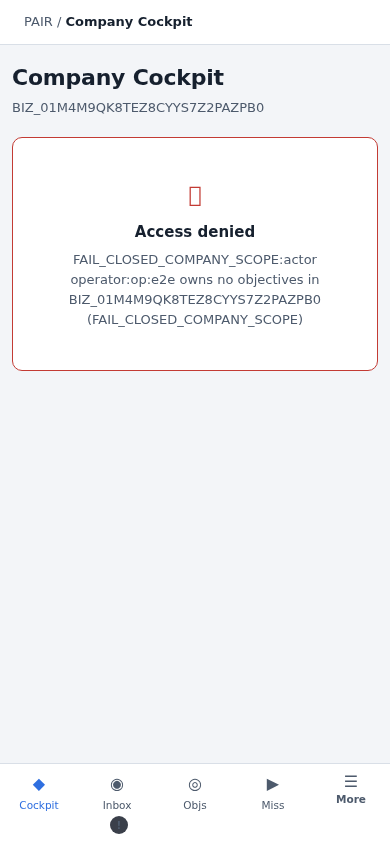
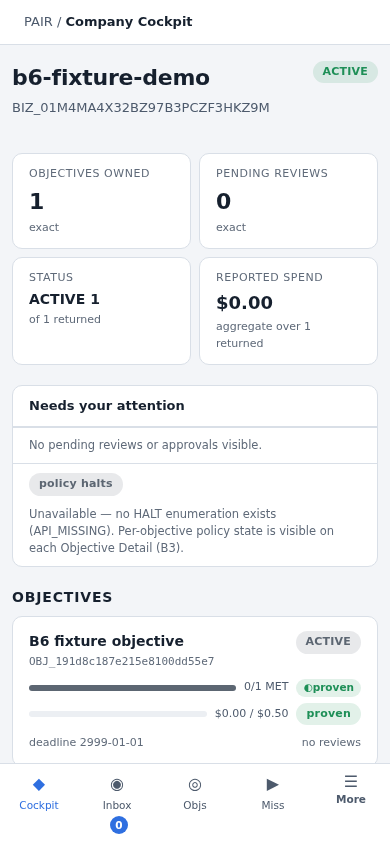
P15.9-B6 R3: valid owner-scoped populated screenshot evidence
- seed canonical objective via POST /api/vnext/objectives; backend derives
  owner_authority_id=operator:op:e2e (never forged); company API 200 asserted
- per-capture marker-text wait + reject access-denied/fail_closed/no-business
- 16 PNGs regenerated on /tmp/pair-b6-shots-lc0mas; PNGs inspected: real
  populated states (R2's 403 captures documented as corrected false-pass)

diff --git a/docs/P15_9_B6/verification-report.md b/docs/P15_9_B6/verification-report.md
@@ -7,7 +7,7 @@ BASE `7791800cc764974d659f335d1e0e569a97106411` · branch `devin/1791681135-p15-
 - `apps/mission-control-ui/src/main.tsx` — dormant opt-in legacy→/app redirect (`OptInRedirect`, `pair.legacy_redirect` flag, 9 route mappings, dynamic-id + query/hash preservation).
 - `apps/mission-control-ui/src/app/routes.tsx` — `/app` index now `Navigate` → `/app/company` (stale "lands in B2" placeholder removed).
 - `apps/mission-control-ui/e2e/b6-acceptance.spec.ts` — new, 7 tests.
-- `apps/mission-control-ui/scripts/b6-shots.mjs` — screenshot generator (R2 rewrite: self-spawns the fixture server on a fresh mkdtemp `PAIR_MC_DIR` with synthetic `PAIR_MC_TOKEN=b6-fixture-token`; asserts empty env → canonical business create → `localStorage` + business-render assertions before every capture; navigation errors abort, never suppressed).
+- `apps/mission-control-ui/scripts/b6-shots.mjs` — screenshot generator (R3: self-spawns fixture server on fresh mkdtemp `PAIR_MC_DIR` + synthetic `PAIR_MC_TOKEN`; asserts empty env → canonical business + **canonical owner-scoped objective** seed (backend-derived `owner_authority_id`, never forged) → asserts company API 200 → per-capture marker-text wait + canonical-error rejection).
 - `docs/P15_9_B6/` — 8 deliverable documents (R1 revisions: per-pane read audit, SSE token-in-query correction, screenshot provenance/labels, vitest baseline evidence, updated gates; R2 revision: verified-screenshot provenance).
 - `.pair-verification/patch-claim.json` — B6 claim.
 
@@ -45,5 +45,5 @@ See `visual-responsive-accessibility.md`. One demonstrable defect found and fixe
 - The no-staticDir UI_HTML serving mode was verified in code only (mandate: do not start another server).
 - Redirect ON-state tested per-test in isolated browser storage only; no real deployment was switched (none exists).
 - axe-core scan deferred to A2 by Owner decision.
-- Screenshots: 16 deterministic captures committed under `docs/P15_9_B6/screenshots/` (light+dark × 1440/1024/768/390 over company, objectives, inbox, missions, system-cost, system-providers, mobile company, mobile chat) via `scripts/b6-shots.mjs`. **Provenance (R2):** the script spawns its own `serve-mission-control.mjs` — fresh `PAIR_MC_DIR=/tmp/pair-b6-shots-0GNAkb` (mkdtemp per run), `PAIR_MC_PORT=8792`, `PAIR_MC_TOKEN=b6-fixture-token` (synthetic; the real dev credential is never read), stub replies, template planner. Runtime-verified isolation: `GET /api/businesses` asserted EMPTY before seeding (abort otherwise); one synthetic business `BIZ_01M4M9QK8TEZ8CYYS7Z2PAZPB0` (`b6-fixture-demo`) created via canonical POST; every page loads `pair.business_id` via `addInitScript` argument (R1 bug fixed — the id is now serialized into the browser context); **pre-capture assertions**: `localStorage["pair.business_id"]===BIZ`, `main.amain` present, populated shots fail on "No business selected" and require the fixture business in page text; navigation non-OK aborts (no `.catch()` suppression). Execution: `cd apps/mission-control-ui && node scripts/b6-shots.mjs` → all 16 lines `shot … OK`, populated shots tagged `(business rendered)` → `done — all captures verified`. No production credential/business data anywhere. Shots prove a subset (8 views × 2 themes); unevidenced interactive states recorded INSUFFICIENT in the a11y/visual doc.
+- Screenshots: 16 deterministic captures committed under `docs/P15_9_B6/screenshots/` (light+dark × 1440/1024/768/390 over company, objectives, inbox, missions, system-cost, system-providers, mobile company, mobile chat) via `scripts/b6-shots.mjs`. **Provenance (R3):** self-spawned `serve-mission-control.mjs` on fresh `PAIR_MC_DIR=/tmp/pair-b6-shots-lc0mas` (mkdtemp), `PORT=8792`, `PAIR_MC_TOKEN=b6-fixture-token` (synthetic — real dev credential never read), stub replies, template planner. Runtime-verified chain: `GET /api/businesses` EMPTY → canonical `POST /api/businesses` → `BIZ_01M4MA4X32BZ97B3PCZF3HKZ9M` → canonical `POST /api/vnext/objectives` (no forged owner; backend derives `owner_authority_id=operator:op:e2e` from `x-operator-id`) → `OBJ_191d8c187e215e8100dd55e7` owner+business asserted → `GET /api/vnext/businesses/:id/company` asserted **HTTP 200** containing the objective **before** browser launch. Per-capture: `localStorage===BIZ`, populated shots wait for marker text (`b6-fixture-demo` / `B6 fixture objective`) inside `main.amain`, every shot rejects `/access denied|fail_closed_…|no business selected/i`, navigation non-OK aborts. Execution: `node scripts/b6-shots.mjs` → 16/16 `OK` (`verified "…"` on populated) → `done — all captures verified`. PNGs visually inspected post-generation: Company shows OBJECTIVES OWNED 1 + the fixture objective card; Objectives shows the seeded card — real populated evidence, not 403 states. **R2→R3 correction:** R2 populated shots actually rendered `FAIL_CLOSED_COMPANY_SCOPE` (zero owned objectives — correct fail-closed); the R2 assertion falsely passed on the business id embedded in the error detail. Fixed by seeding an owner-scoped objective + marker-text waits + error-string rejection. No production credential/business data anywhere. Shots prove a subset (8 views × 2 themes); unevidenced interactive states recorded INSUFFICIENT in the a11y/visual doc.
 - CI: none configured for this repo — verification is the harness + local suites above.

diff --git a/docs/P15_9_B6/visual-responsive-accessibility.md b/docs/P15_9_B6/visual-responsive-accessibility.md
@@ -59,16 +59,18 @@ Evidence: `app.spec.ts` keyboard/a11y tests + B6 manual pass. Existing tooling o
 
 **Unresolved:** no axe-core scan (new dependency not allowed by the mandate); automated contrast is computed, not instrumented — flagged as honest limitation, not claimed as a pass beyond what was verified.
 
-## Screenshot evidence — provenance & labels (B6 R2)
+## Screenshot evidence — provenance & labels (B6 R3)
 
-All 16 PNGs under `screenshots/` were **regenerated** at R2 by `scripts/b6-shots.mjs`, which now spawns its **own** `serve-mission-control.mjs` inside the run: fresh `PAIR_MC_DIR` per run (`mkdtemp /tmp/pair-b6-shots-*`), synthetic token `b6-fixture-token` via `PAIR_MC_TOKEN` (the real dev credential is never read — nothing in shots, console, or committed files is a real secret), stub conversation replies, template planner. Isolation is **affirmatively verified at runtime**, not asserted by comments: the script asserts `GET /api/businesses` returns an empty list before seeding (aborts otherwise), creates exactly one synthetic business (`b6-fixture-demo`, id `BIZ_01M4M9QK8TEZ8CYYS7Z2PAZPB0` in the R2 run) via canonical `POST /api/businesses`, serializes it into `addInitScript` as an argument, and **before every capture** asserts `localStorage["pair.business_id"]` equals it; populated shots additionally fail if "No business selected" renders or if the fixture business is absent from the page text. Navigation errors are no longer swallowed — a non-OK response aborts the run.
+All 16 PNGs under `screenshots/` were **regenerated** at R3 by `scripts/b6-shots.mjs`, which spawns its **own** `serve-mission-control.mjs` inside the run: fresh `PAIR_MC_DIR` per run (`mkdtemp /tmp/pair-b6-shots-*`), synthetic token `b6-fixture-token` via `PAIR_MC_TOKEN` (the real dev credential is never read — nothing in shots, console, or committed files is a real secret), stub conversation replies, template planner. Isolation is **affirmatively verified at runtime**: `GET /api/businesses` must return EMPTY before seeding; one synthetic business (`b6-fixture-demo`) via canonical `POST /api/businesses`; **one synthetic objective** (`B6 fixture objective`) via canonical `POST /api/vnext/objectives` — backend derives `owner_authority_id = operator:op:e2e` from `x-operator-id` (never forged); the script asserts the derived owner, `business_id`, and that `GET /api/vnext/businesses/:id/company` returns **HTTP 200** containing the seeded objective **before** launching the browser. Per-capture assertions: `localStorage["pair.business_id"]===BIZ`; populated shots wait for their marker text (`b6-fixture-demo` / `B6 fixture objective`) inside `main.amain` — real data render, not just shell presence; **every** shot fails on `/access denied|fail_closed_…|no business selected/i` in page text; navigation non-OK aborts.
 
-Runtime log (R2 run): `fixture env: PAIR_MC_DIR=/tmp/pair-b6-shots-0GNAkb PORT=8792 token=synthetic` → `fixture business: BIZ_01M4M9QK8TEZ8CYYS7Z2PAZPB0` → `shot … OK (business rendered)` for all populated shots → `done — all captures verified`.
+Runtime log (R3 run): `PAIR_MC_DIR=/tmp/pair-b6-shots-lc0mas PORT=8792` → `fixture business: BIZ_01M4MA4X32BZ97B3PCZF3HKZ9M` → `fixture objective: OBJ_191d8c187e215e8100dd55e7 owner=operator:op:e2e company=200 verified` → `shot … OK (verified "…")` → `done — all captures verified`.
+
+**R2 → R3 correction:** the R2 run's populated shots rendered `Access denied — FAIL_CLOSED_COMPANY_SCOPE` (actor owned zero objectives — correct fail-closed backend behavior) and the R2 assertion falsely passed because the error detail contained the business id. R3 seeds one owner-scoped objective and asserts marker text + rejects error strings, so populated-state claims now reflect real canonical evidence.
 
 | Shot (×light/dark) | Viewport | What it proves | State |
 |---|---|---|---|
-| `company-*`, `company-mobile-*` | 1440 + 390 | cockpit layout, sidebar/tab bar, KPI chips, theme tokens | **populated, asserted** — fixture business rendered (asserted by script) |
-| `objectives-*` | 1440 | objective list for a selected business with zero objectives — distinctly a selected-empty state, not no-business | **populated business, empty objectives** (asserted: business rendered AND no "No business selected") |
+| `company-*`, `company-mobile-*` | 1440 + 390 | cockpit ready state: business header, KPI cards (OBJECTIVES OWNED 1), objective row, sidebar/tab bar, theme tokens | **populated, asserted** — `b6-fixture-demo` marker verified; canonical company read 200 pre-checked |
+| `objectives-*` | 1440 | objective list with one owned objective card (status, KPI progress, budget, deadline) | **populated, asserted** — `B6 fixture objective` marker verified |
 | `inbox-*` | 768 | tablet layout, lanes, badge | empty inbox lanes |
 | `missions-*` | 1440 | mission list + global-unfiltered label | empty mission table |
 | `system-cost-*` | 1024 | tablet cost page, policy/profile tables | empty canonical tables |

diff --git a/docs/P15_9_B6/final-acceptance-matrix.md b/docs/P15_9_B6/final-acceptance-matrix.md
@@ -18,7 +18,7 @@ BASE `7791800cc764974d659f335d1e0e569a97106411` → HEAD (see verification-repor
 | G-rollback | documented procedure | `rollback-plan.md` | doc review; Level-1 proven by e2e | **PASS** (documentation deliverable; execution deferred to real cutover) |
 | G-docs | 8 deliverables present, observed-behavior-only | `docs/P15_9_B6/*` | file inventory | **PASS** |
 | G-verification | harness READY + real counts | `verification-report.md` | `verify:change --base 7791800` | **PASS** — READY_FOR_INDEPENDENT_AUDIT |
-| G-screenshot-evidence | deterministic sanitized captures with runtime-verified provenance | `visual-responsive-accessibility.md` screenshot section + `verification-report.md` | R2: `b6-shots.mjs` self-spawns the fixture server (fresh mkdtemp `PAIR_MC_DIR`, synthetic `PAIR_MC_TOKEN`), asserts empty env + `localStorage` + business-render before every capture; nav errors abort | **PASS (subset)** — 8 views × 2 themes verified captures; unevidenced interactive states recorded INSUFFICIENT, not claimed |
+| G-screenshot-evidence | deterministic sanitized captures with runtime-verified provenance AND valid populated states | `visual-responsive-accessibility.md` screenshot section + `verification-report.md` | R3: self-spawned fixture server (fresh mkdtemp, synthetic token); canonical objective seeded with backend-derived owner; company API 200 asserted; per-capture marker-text wait + canonical-error rejection | **PASS (subset)** — 8 views × 2 themes; populated shots show real owner-scoped data (R2's 403-state captures corrected); unevidenced interactive states INSUFFICIENT, not claimed |
 | G-owner-signoff | Owner approves intentional differences | — | Owner decision | **INSUFFICIENT** — by design awaiting Owner (C1 in cutover-preparation) |
 | G-axe-scan | automated a11y scanner run | — | not run | **N/A** — new dependency out of B6 scope; flagged for A2 |
 
